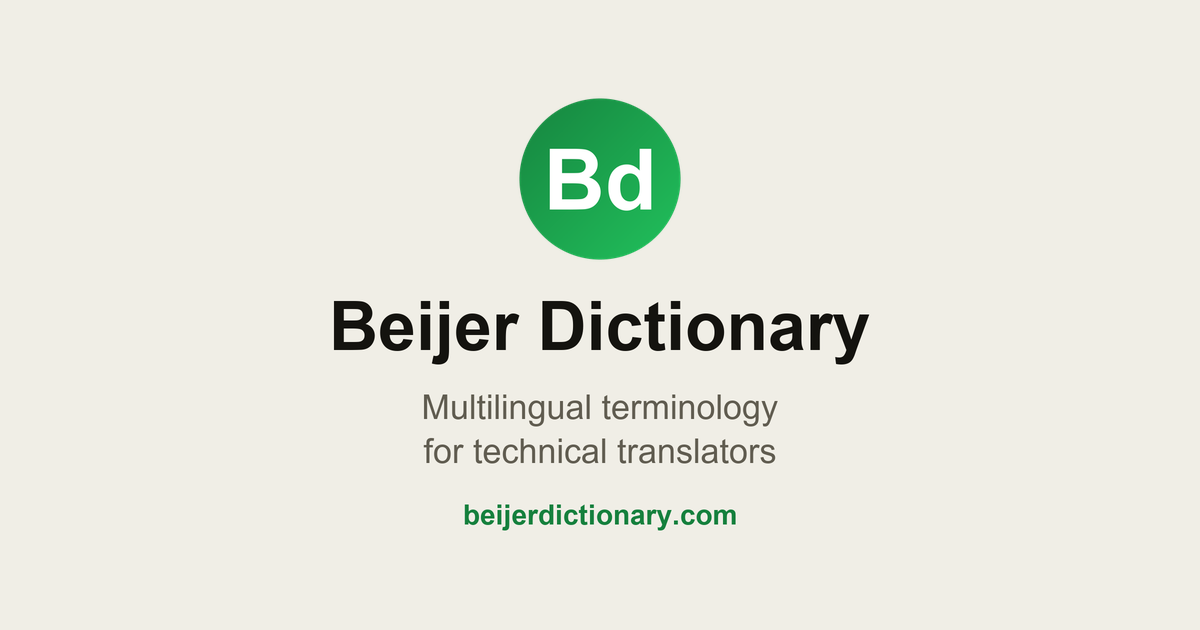
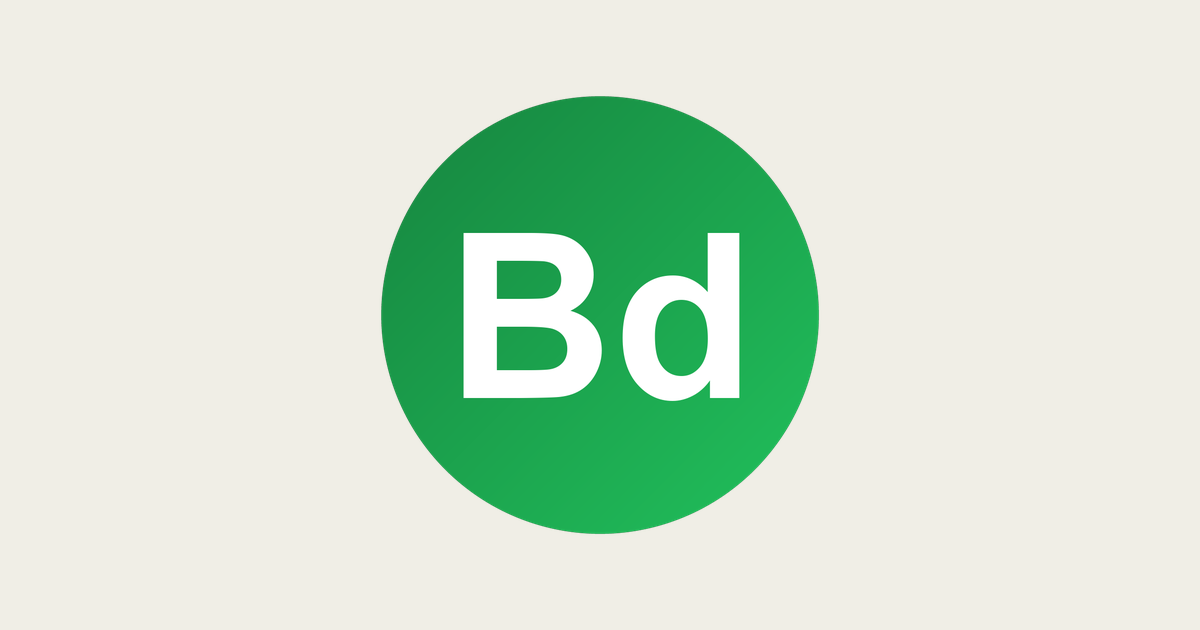
Link preview: the Bd mark alone, so WhatsApp's small preview is sharp
WhatsApp's small link preview is the middle square of the card, shrunk to
about 115 pixels and saved as a rough JPEG. The first card's mark, name
and tagline came out small and unreadable there. The card is now the Bd
disc alone, 437 pixels across, on the site's stone ground; the apps print
the page title beside it.

scripts/make-icons.py makes it from the same 1024-pixel master as the
icons, so scripts/make-og-image.py, which could only scale down the
256-pixel favicon, is gone. og:image asks for ?v=2, so the apps fetch the
new picture rather than reuse the one they kept.

Changed region(s): [[0.2775, 0.1508, 0.74, 0.8444]]

diff --git a/scripts/make-icons.py b/scripts/make-icons.py
@@ -3,7 +3,9 @@ the header shows (which is favicon.svg itself).
 
     python scripts/make-icons.py
 
-Writes public/favicon.svg, public/favicon.ico and public/apple-touch-icon.png.
+Writes public/favicon.svg, public/favicon.ico and public/apple-touch-icon.png,
+and public/og-image.png, the picture a chat app or social site shows when a
+link to the site is pasted.
 
 The mark belongs to the same family as Supervertaler's "Sv" and MemDesk's
 "Md": white letters on a disc with a diagonal gradient, 112-radius in a 256
@@ -15,6 +17,7 @@ the d's ascender stands at cap height, and the pair is centred as a whole.
 Requires Pillow and fontTools, and Arial Bold - so, in practice, Windows.
 """
 import os
+import re
 
 from PIL import Image, ImageDraw, ImageFont
 from fontTools.pens.svgPathPen import SVGPathPen
@@ -66,6 +69,22 @@ apple = Image.new("RGB", (180, 180), (255, 255, 255))
 small = src.resize((180, 180), Image.LANCZOS)
 apple.paste(small, (0, 0), small)
 apple.save(os.path.join(PUBLIC, "apple-touch-icon.png"))
+
+
+# ------------------------------------------------------- the link preview
+# What WhatsApp, LinkedIn, Slack, iMessage and X show when a link is pasted;
+# Base.astro names it in every page. The mark alone, large, on the site's
+# light-mode ground. WhatsApp's small preview is the middle square of the
+# picture, shrunk to about 115 pixels and saved as a rough JPEG: a mark with
+# the name and tagline under it came out small and soft there. The apps print
+# the page title beside the picture, so the name is there anyway.
+with open(os.path.join(ROOT, "src", "styles", "themes.css"), encoding="utf-8") as f:
+    ground = re.search(r":root\s*\{[^}]*?--bg:\s*(\d+),\s*(\d+),\s*(\d+);", f.read())
+OG_W, OG_H, OG_MARK = 1200, 630, 500      # the mark's 256 box; its disc is 437
+card = Image.new("RGB", (OG_W, OG_H), tuple(int(v) for v in ground.groups()))
+big = src.resize((OG_MARK, OG_MARK), Image.LANCZOS)
+card.paste(big, ((OG_W - OG_MARK) // 2, (OG_H - OG_MARK) // 2), big)
+card.save(os.path.join(PUBLIC, "og-image.png"), optimize=True)
 
 
 # ------------------------------------------------------------------ the SVG

diff --git a/CHANGELOG.md b/CHANGELOG.md
@@ -9,8 +9,11 @@ API. Newest first.
 **Site**
 - **Sharp link previews.** A link to any page pasted into WhatsApp,
   LinkedIn, Slack, iMessage or X now shows a proper preview card (the Bd
-  mark, the name and the tagline on the site's stone background) instead
-  of a blurry, stretched copy of the browser-tab icon.
+  mark, large, on the site's stone background) instead of a blurry,
+  stretched copy of the browser-tab icon. The first version had the name
+  and tagline under the mark, which turned to mush in WhatsApp's small
+  preview: the middle of the picture shrunk to about 115 pixels.
+  `scripts/make-icons.py` now makes the card along with the icons.
 
 ## 2026-10-20
 
